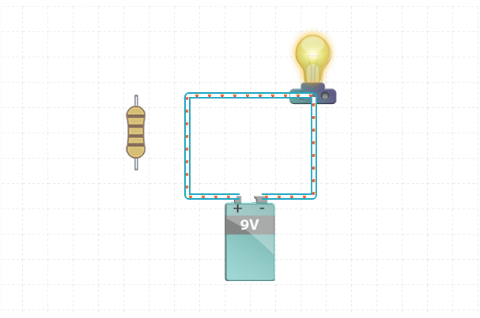
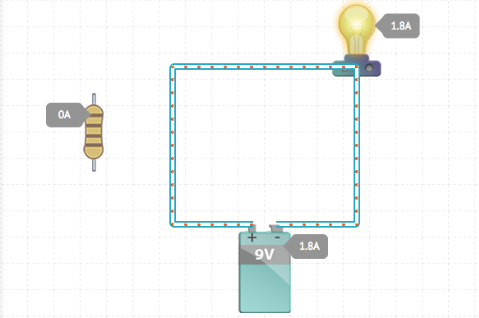
new levels

Changed region(s): [[0.3507, 0.0, 0.8768, 0.9906], [0.0877, 0.283, 0.2338, 0.5377], [0.263, 0.283, 0.3215, 0.5377]]

diff --git a/build/common/pages/puzzles/lib/circuitous_objects/levels.js b/build/common/pages/puzzles/lib/circuitous_objects/levels.js
@@ -288,6 +288,44 @@ levels.WORLDS = [
             completeValues: [["Battery", 0.9]],
             complete: '<p>Using Ohm\'s law we know that the resistor, with 10 Ohms of resistance, will create a circuit with 0.9 Amps of current.</p>\n<p>With more resistance from the resistor, the circuit will have less current.</p>',
             values: true
+          }, {
+            id: 1379386664250,
+            challenge: "With a battery that has 12 Volts, create a circuit that has 2.4 Amps of current flowing through it.",
+            instructions: {
+              "components": [
+                {
+                  "name": "Battery",
+                  "position": "8,9",
+                  "voltage": 12
+                }, {
+                  "name": "Resistor",
+                  "position": "3,5"
+                }, {
+                  "name": "Lightbulb",
+                  "position": "14,7"
+                }
+              ],
+              "wires": [["9,9", "10,9"], ["10,9", "11,9"], ["11,4", "10,4"], ["10,4", "9,4"], ["9,4", "8,4"], ["8,4", "7,4"], ["7,4", "6,4"], ["6,4", "5,4"], ["5,4", "5,5"], ["8,9", "7,9"], ["7,9", "6,9"], ["6,9", "5,9"], ["5,9", "5,8"], ["11,4", "12,4"], ["12,4", "12,5"], ["12,5", "12,6"], ["12,6", "12,7"], ["12,7", "12,8"], ["12,8", "12,9"], ["12,9", "11,9"], ["5,5", "5,6"], ["5,6", "5,7"], ["5,7", "5,8"]]
+            },
+            hints: ['The battery in this case has more voltage, so the current will increase as well.', 'With 12 Volts you need to provide 5 Ohms of resistance to have 2.4 Amps of current (12 / 5 = 2.4).', 'Add the lightbulb (5 Ohms of resistance) to the circuit.'],
+            completeInstructions: {
+              "components": [
+                {
+                  "name": "Battery",
+                  "position": "8,9"
+                }, {
+                  "name": "Resistor",
+                  "position": "3,5"
+                }, {
+                  "name": "Lightbulb",
+                  "position": "11,4"
+                }
+              ],
+              "wires": [["9,9", "10,9"], ["10,9", "11,9"], ["11,4", "10,4"], ["10,4", "9,4"], ["9,4", "8,4"], ["8,4", "7,4"], ["7,4", "6,4"], ["6,4", "5,4"], ["5,4", "5,5"], ["8,9", "7,9"], ["7,9", "6,9"], ["6,9", "5,9"], ["5,9", "5,8"], ["11,4", "12,4"], ["12,4", "12,5"], ["12,5", "12,6"], ["12,6", "12,7"], ["12,7", "12,8"], ["12,8", "12,9"], ["12,9", "11,9"], ["5,5", "5,6"], ["5,6", "5,7"], ["5,7", "5,8"]]
+            },
+            completeValues: [["Battery", 2.4]],
+            complete: '<p>A battery with 9 Volts and a lightbulb with 5 Ohms of resistance would have created 1.8 Amps of current.</p>\n<p>With a 12 Volt battery and the same lightbulb, the circuit has 2.4 Amps of current.',
+            values: true
           }
         ]
       }

diff --git a/build/common/pages/puzzles/circuitous.js b/build/common/pages/puzzles/circuitous.js
@@ -90,7 +90,9 @@ soma.views({
       '~f': '"],["',
       '~g': '","',
       '~h': '"]]}',
-      '~i': '{"name": "Resistor", '
+      '~i': '{"name": "Resistor", ',
+      '~j': '"volts": ',
+      '~k': '"resistance": '
     },
     create: function() {
       var circuitous, circuitousEditor, instructions, replace, replaceWith, _ref,
@@ -204,6 +206,12 @@ soma.views({
         _results.push((function(info) {
           var component;
           component = new circuitous[info.name];
+          if (info.resistance !== void 0) {
+            component.setResistance(info.resistance);
+          }
+          if (info.voltage !== void 0) {
+            component.setVoltage(info.voltage);
+          }
           _this.viewHelper.addComponent(component);
           return component.el.find('img').bind('load', function() {
             return setTimeout((function() {

diff --git a/build/common/pages/puzzles/lib/circuitous_objects/battery.js b/build/common/pages/puzzles/lib/circuitous_objects/battery.js
@@ -39,9 +39,15 @@ battery.Battery = (function(_super) {
     this.init();
   }
 
-  Battery.prototype.init = function() {};
+  Battery.prototype.init = function() {
+    return this.setVoltage(this.voltage);
+  };
 
   Battery.prototype.getInfo = function() {};
+
+  Battery.prototype.setVoltage = function(voltage) {
+    this.voltage = voltage;
+  };
 
   return Battery;
 

diff --git a/build/common/pages/puzzles/lib/circuitous_objects/object.js b/build/common/pages/puzzles/lib/circuitous_objects/object.js
@@ -94,6 +94,14 @@ object.Object = (function(_super) {
     this.name = name;
   };
 
+  Object.prototype.setResistance = function(resistance) {
+    this.resistance = resistance;
+  };
+
+  Object.prototype.setVoltage = function(voltage) {
+    this.voltage = voltage;
+  };
+
   return Object;
 
 })(Draggable);
